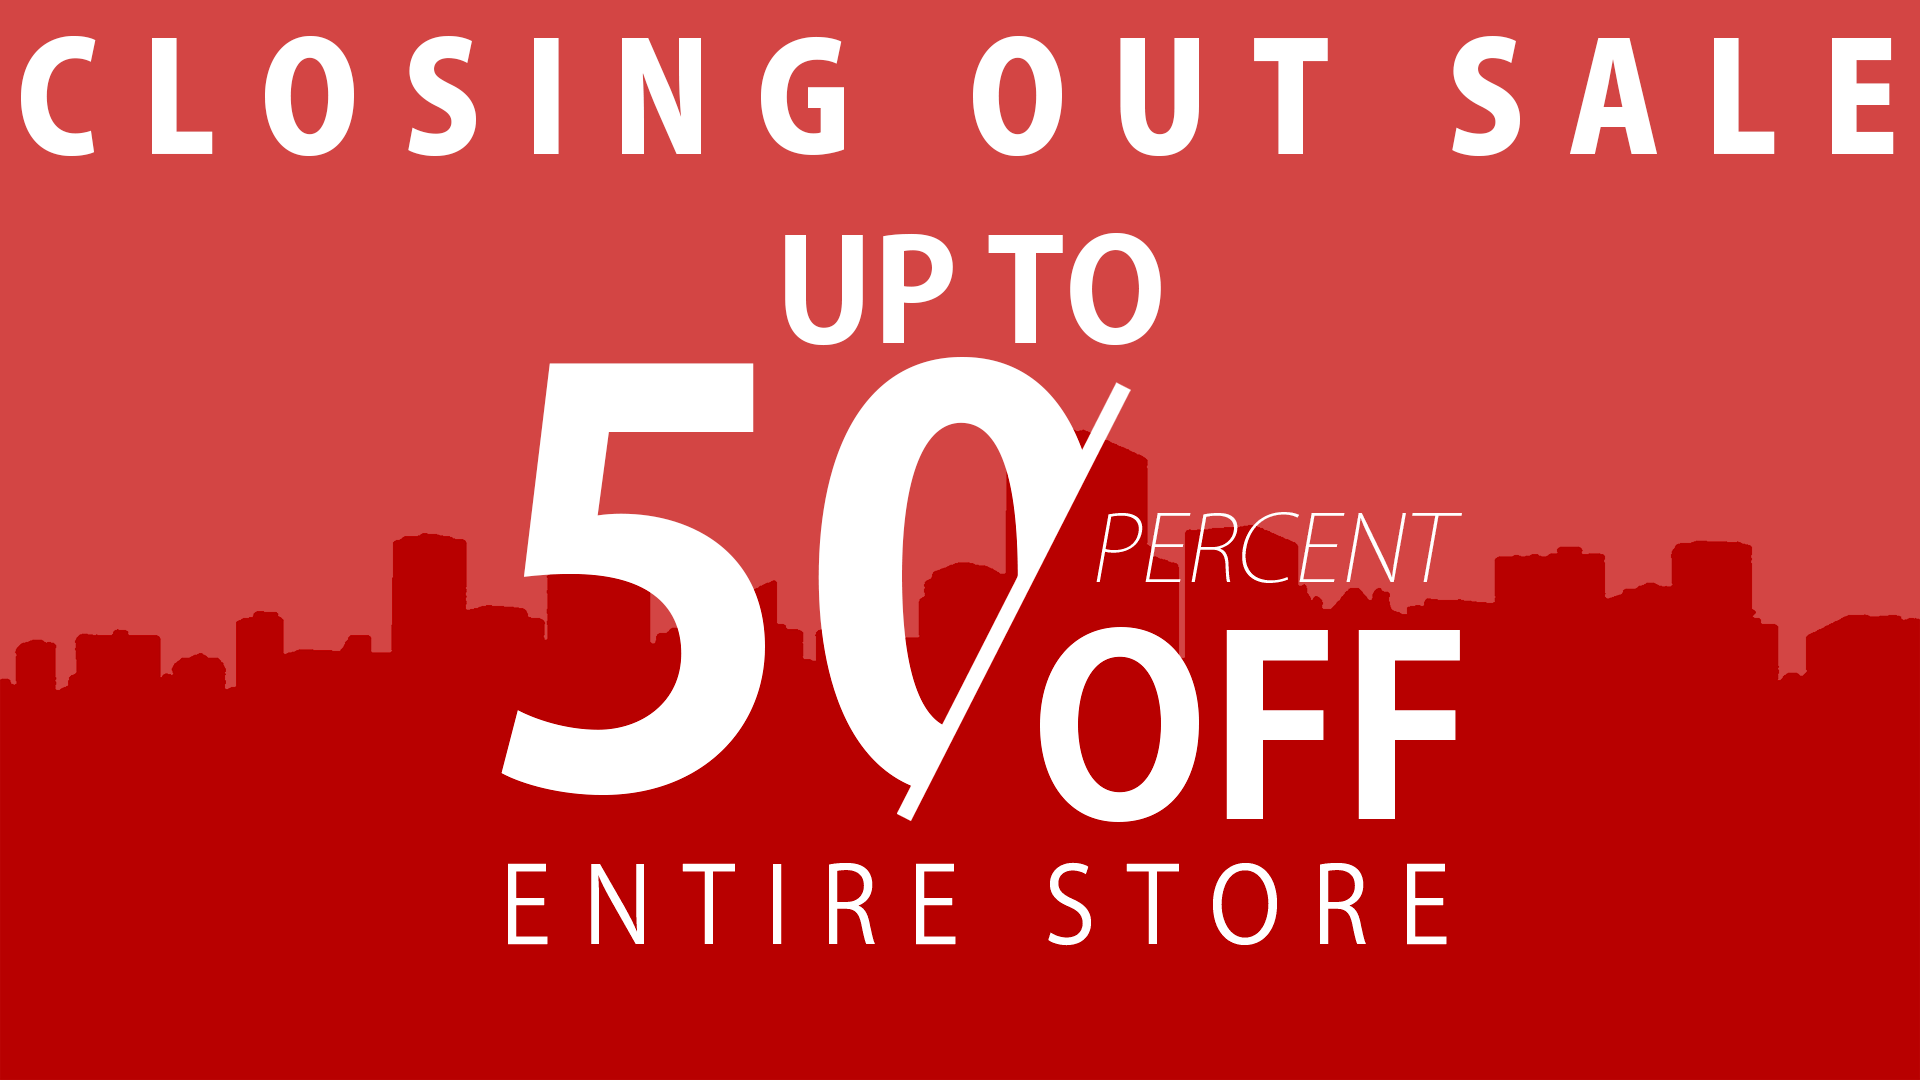
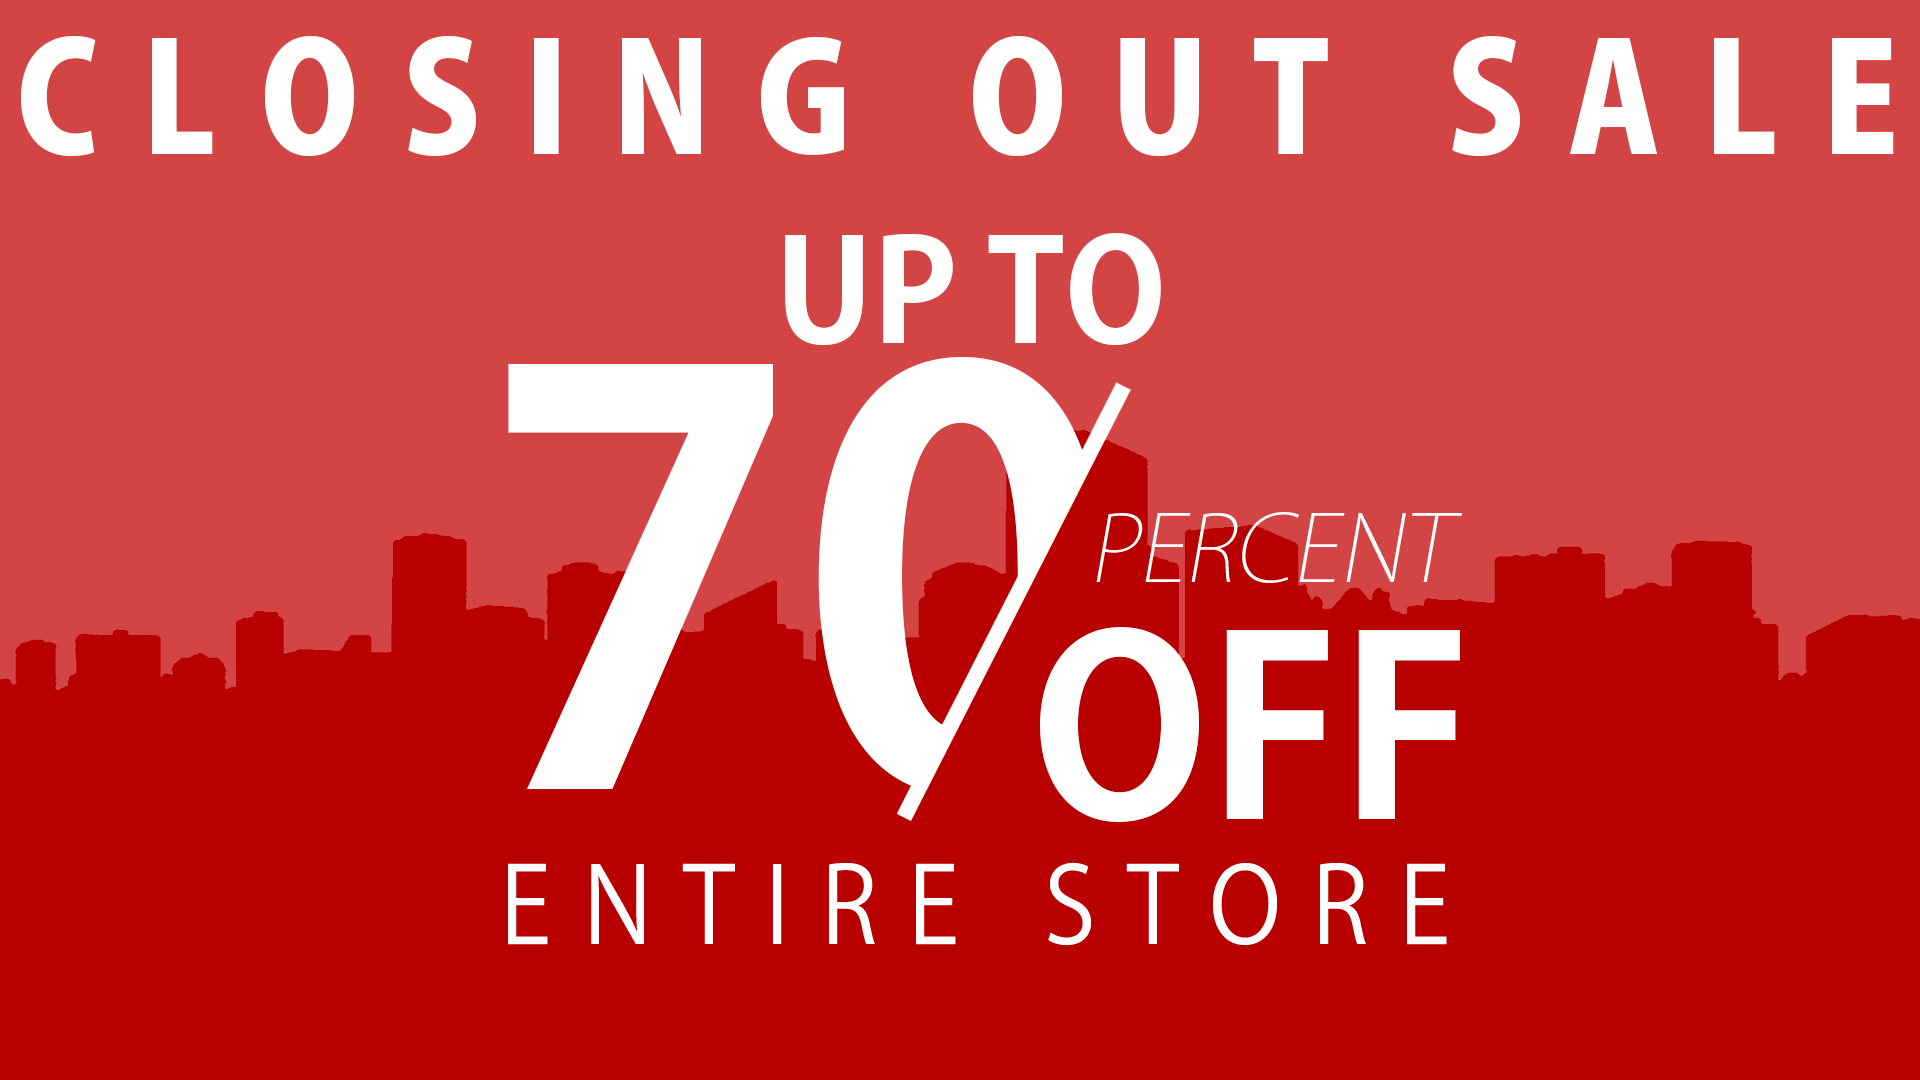
70%

Changed region(s): [[0.25, 0.3361, 0.4062, 0.7333], [0.25, 0.3361, 0.3125, 0.3972]]

diff --git a/index.html b/index.html
@@ -75,7 +75,7 @@
                     <img src="images/carousel-images/closing-out-sale.png" alt="ClOSING OUT SALE">
                 </div>
                 <div class="item">
-                    <img src="images/carousel-images/closing-out-sale-sized.png" alt="50% OFF SALE">
+                    <img src="images/carousel-images/closing-out-sale-sized.png" alt="70% OFF SALE">
                 </div>
             </div>
 
